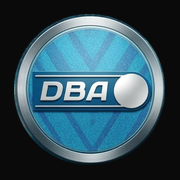
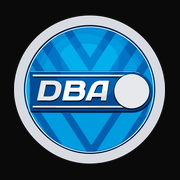
Escudo DBA nuevo (íconos, splash, fondo) y SEO básico
- Reemplaza el escudo por la versión vectorial: favicon, íconos PWA (incl. maskable 80 %), apple-touch-icon, logo del splash, imágenes de arranque de iOS y fondos escudo-color / escudo-acero (Acero en escala de grises).
- SEO: metadatos, Open Graph/Twitter, JSON-LD y contenido estático de respaldo en index.html; robots.txt; sitemap.xml; título por ruta.

Claude-Session: https://claude.ai/code/session_01DTq9WEzgpnBP7UGdVytk4p

diff --git a/frontend/index.html b/frontend/index.html
@@ -4,7 +4,26 @@
     <meta charset="UTF-8" />
     <link rel="icon" type="image/png" href="/favicon.png" />
     <meta name="viewport" content="width=device-width, initial-scale=1.0, viewport-fit=cover" />
-    <meta name="description" content="Cronómetro y seguimiento de partidos de Dodgeball Buenos Aires" />
+    <meta name="description" content="Resultados, posiciones, estadísticas y partidos en vivo del dodgeball de Buenos Aires: torneos, equipos y rankings de la liga, segundo a segundo." />
+    <meta name="robots" content="index, follow, max-image-preview:large" />
+    <link rel="canonical" href="https://dodgeball-ba.vercel.app/" />
+    <meta property="og:type" content="website" />
+    <meta property="og:locale" content="es_AR" />
+    <meta property="og:site_name" content="Dodgeball Buenos Aires" />
+    <meta property="og:title" content="Dodgeball Buenos Aires · Resultados y partidos en vivo" />
+    <meta property="og:description" content="Seguí cada partido segundo a segundo: resultados, posiciones, estadísticas, torneos y equipos del dodgeball de Buenos Aires." />
+    <meta property="og:url" content="https://dodgeball-ba.vercel.app/" />
+    <meta property="og:image" content="https://dodgeball-ba.vercel.app/logo-dba.png" />
+    <meta name="twitter:card" content="summary" />
+    <meta name="twitter:title" content="Dodgeball Buenos Aires · Resultados y partidos en vivo" />
+    <meta name="twitter:description" content="Resultados, posiciones y estadísticas del dodgeball de Buenos Aires, en tiempo real." />
+    <meta name="twitter:image" content="https://dodgeball-ba.vercel.app/logo-dba.png" />
+    <script type="application/ld+json">
+      {"@context":"https://schema.org","@graph":[
+        {"@type":"WebSite","name":"Dodgeball Buenos Aires","alternateName":"Dodgeball BA","url":"https://dodgeball-ba.vercel.app/","inLanguage":"es-AR"},
+        {"@type":"SportsOrganization","name":"Dodgeball Buenos Aires","alternateName":"Dodgeball BA","sport":"Dodgeball","url":"https://dodgeball-ba.vercel.app/","logo":"https://dodgeball-ba.vercel.app/logo-dba.png","areaServed":{"@type":"City","name":"Buenos Aires"}}
+      ]}
+    </script>
     <link rel="apple-touch-icon" href="/apple-touch-icon.png" />
     <!-- Arranque en iOS: mismo fondo y logo que la pantalla de bienvenida (generadas con scripts/gen-splash.py) -->
     <link rel="apple-touch-startup-image" href="/splash/1320x2868.jpg" media="(device-width: 440px) and (device-height: 956px) and (-webkit-device-pixel-ratio: 3) and (orientation: portrait)" />
@@ -46,11 +65,25 @@
       @keyframes splash-in{from{opacity:0;transform:scale(.86)}to{opacity:1;transform:scale(1)}}
       @media (prefers-reduced-motion:reduce){#splash img{animation:none}#splash{transition:none}}
     </style>
-    <title>Dodgeball BA</title>
+    <title>Dodgeball Buenos Aires · Resultados, posiciones y partidos en vivo</title>
   </head>
   <body>
     <div id="splash" aria-hidden="true"><img src="/logo-dba.png" alt="" width="220" height="220" /></div>
-    <div id="root"></div>
+    <div id="root">
+      <!-- Contenido para buscadores y para antes de que cargue la app: React lo reemplaza al montar -->
+      <main style="font-family:system-ui,sans-serif;color:#e8eefc;background:#04070d;min-height:100vh;padding:48px 20px;max-width:760px;margin:0 auto">
+        <h1>Dodgeball Buenos Aires: resultados, posiciones y partidos en vivo</h1>
+        <p>Seguí el dodgeball de Buenos Aires en tiempo real: resultados, posiciones, estadísticas y récords de cada torneo, con el reloj del partido y del set segundo a segundo.</p>
+        <h2>Todo el dodgeball en un solo lugar</h2>
+        <ul>
+          <li><a href="/liga" style="color:#6fb2ff">Torneos y posiciones</a>: zonas, fixture y playoffs de cada torneo.</li>
+          <li><a href="/equipos" style="color:#6fb2ff">Equipos</a>: plantel, historial y estadísticas de cada equipo.</li>
+          <li><a href="/partidos" style="color:#6fb2ff">Partidos</a>: marcador y relojes en vivo.</li>
+          <li><a href="/noticias" style="color:#6fb2ff">Noticias</a> de la liga.</li>
+          <li><a href="/reglas" style="color:#6fb2ff">Reglas del juego</a> Foam y Cloth.</li>
+        </ul>
+      </main>
+    </div>
     <script type="module" src="/src/main.jsx"></script>
   </body>
 </html>

diff --git a/frontend/src/App.jsx b/frontend/src/App.jsx
@@ -79,9 +79,23 @@ function PerfilTemp() {
 const PROTECTED = Object.entries(ITEMS).filter(([k]) => !['home', 'perfil', 'favoritos', 'mi_equipo', 'asignaciones', 'historial_asignaciones', 'mis_partidos', 'mis_estadisticas', 'dashboard_canchas', 'torneos', 'equipos', 'sedes', 'sanciones', 'partidos', 'personas', 'usuarios', 'registro_ediciones', 'reportes'].includes(k))
 
 // Sin sesión, en la raíz y la primera vez de la visita: pantalla de bienvenida (sin cabecera ni barra). "Ver partidos" la deja vista hasta cerrar la pestaña
+// Título de la pestaña (y del resultado en Google) según la pantalla pública
+const BASE_TITLE = 'Dodgeball Buenos Aires'
+const TITLES = {
+  '/': BASE_TITLE + ' · Resultados, posiciones y partidos en vivo',
+  '/liga': 'Torneos y posiciones · ' + BASE_TITLE,
+  '/equipos': 'Equipos · ' + BASE_TITLE,
+  '/partidos': 'Partidos en vivo y resultados · ' + BASE_TITLE,
+  '/noticias': 'Noticias · ' + BASE_TITLE,
+  '/reglas': 'Reglas del dodgeball (Foam y Cloth) · ' + BASE_TITLE,
+  '/acerca': 'Acerca de · ' + BASE_TITLE,
+  '/buscar': 'Buscar · ' + BASE_TITLE,
+}
+
 function Shell() {
   const { user, loading } = useAuthStore()
   const { pathname } = useLocation()
+  useEffect(() => { if (TITLES[pathname]) document.title = TITLES[pathname] }, [pathname])
   if (pathname === '/' && loading) return <div className="min-h-screen" />
   if (pathname === '/' && !user && !landingSeen()) return <LandingPage />
   return <AppLayout />
